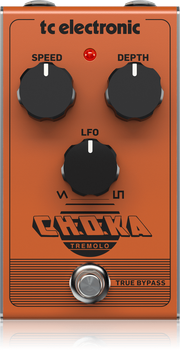
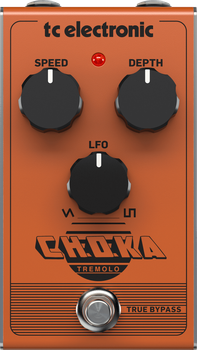
fix(catalog): remove Choka drop shadow from hosted cutout

diff --git a/docs/tasks/P5-03-pedals-tc-electronic-choka.md b/docs/tasks/P5-03-pedals-tc-electronic-choka.md
@@ -17,6 +17,7 @@ end before any parallel wave starts.
 - **Items:** 1 — `tc-electronic-choka-tremolo` (Choka Tremolo)
 - **Raw file:** `data/catalog/research/pedals/tc-electronic/choka-1.json`
 - **Assets:** `public/pedal-assets/pedals/{800,350}/tc-electronic-choka-tremolo.png`
+- **Image note:** the official top-down has a bottom drop shadow/reflection; it was removed before trimming so it is **not** part of the cutout or the 7.4 × 13.2 cm footprint.
 
 ## Read first (context pack)
 
